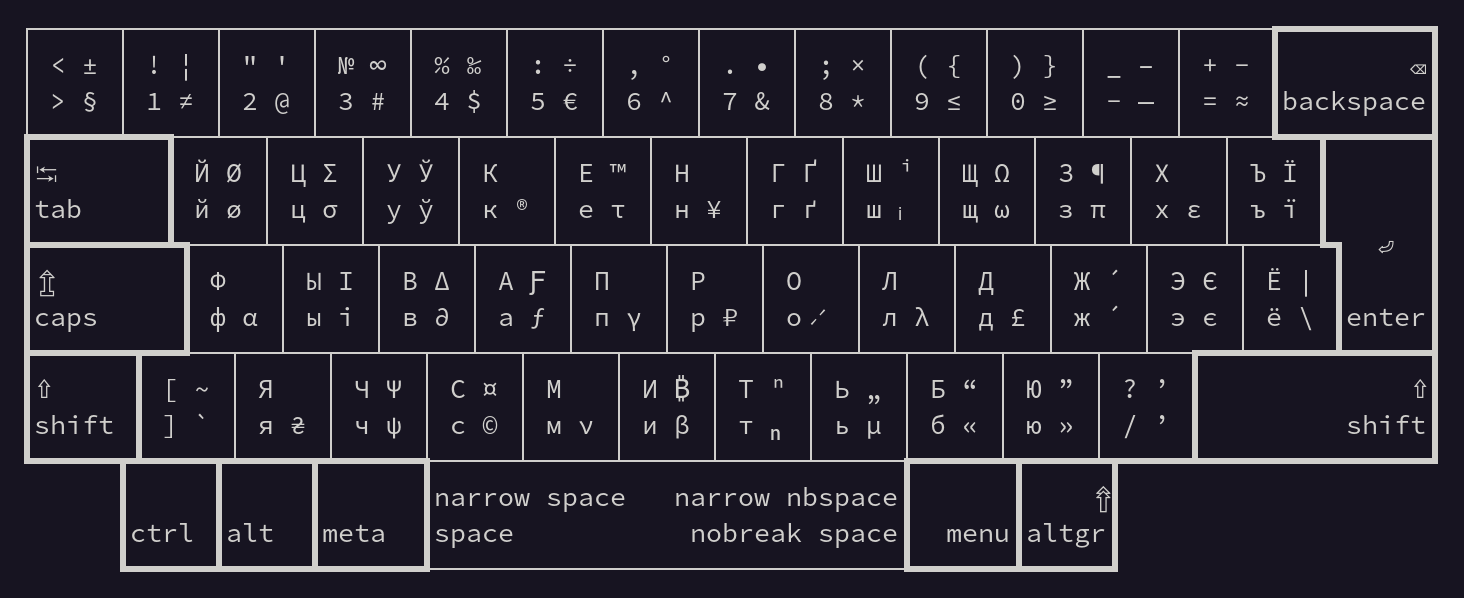
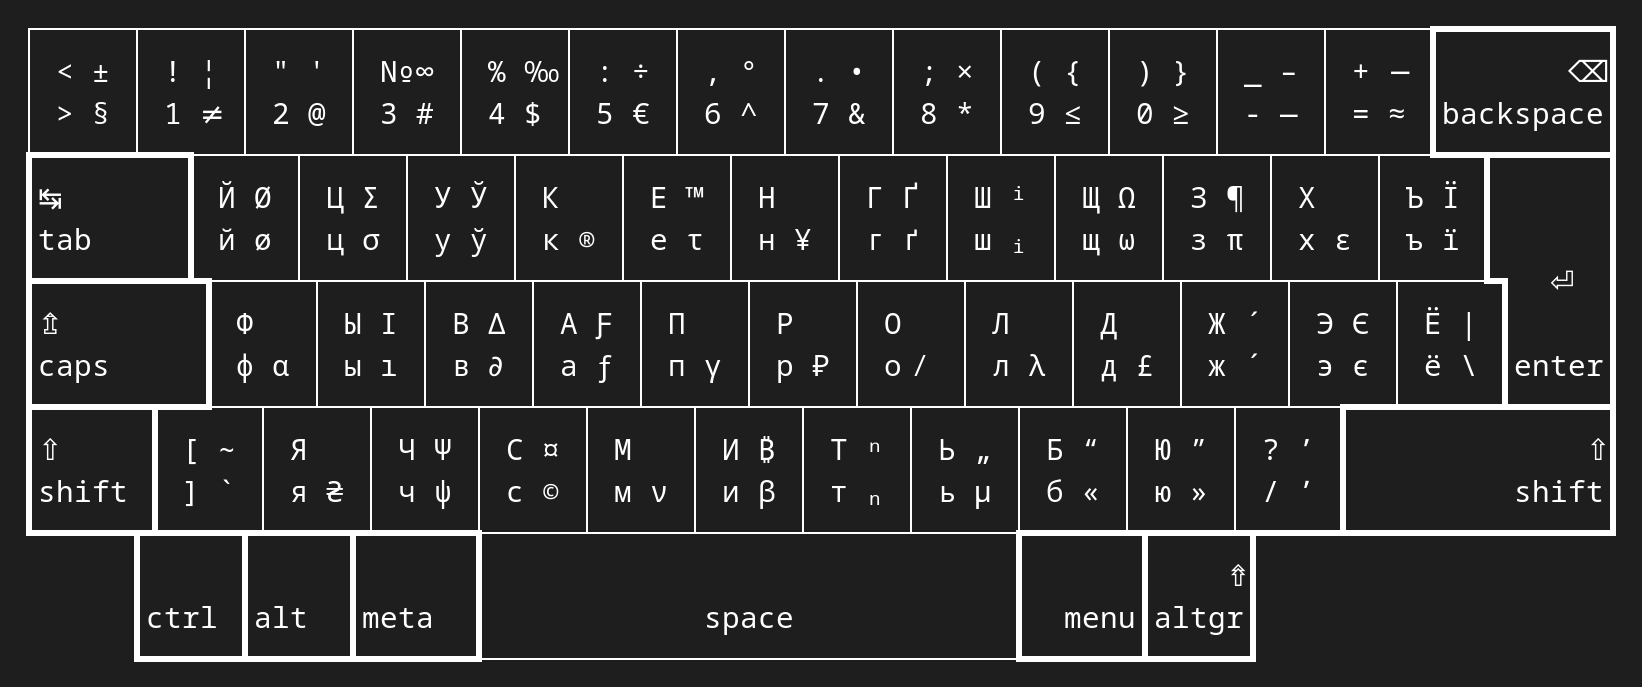
Removed space bar extra behavior and changed keyboard picture
Wrapped rules and symbols folders into xkb folder, changed installation script in Readme.md

diff --git a/README.md b/README.md
@@ -26,7 +26,7 @@ use us(badmac), ru(badmacx) pair.
 
 _In my case xkb files are stored in `/usr/share/X11/xkb` folder._
 
-* Make backups of replacing system files
+* Make backups of replacing system files if you wish
 
 ```sh
 $ cd /usr/share/X11/xkb
@@ -43,11 +43,10 @@ files
 
 ```sh
 $ cd <your_path>/xkb-mac-extra-layouts
-$ rm README.md xkb-ru-macx.z.png
-$ sudo cp -r * /usr/share/X11/xkb
+$ sudo cp -r xkb /usr/share/X11
 ```
 
 * Reboot your system
-* Set new variants (see Variants Added above)
+* Set new variants (see **Variants Added** section above)
 * Enjoy your typing
 
